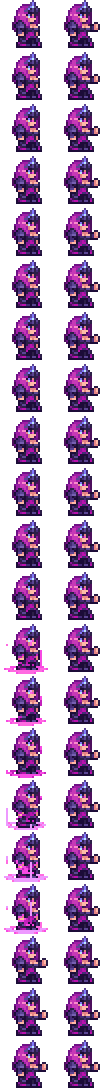
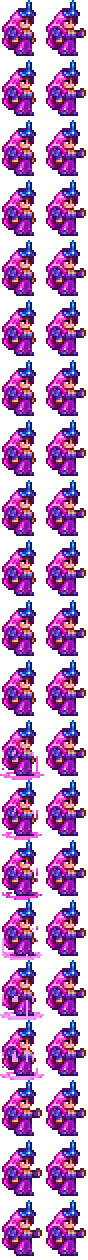
FAP

diff --git a/NPCs/TownNPCs/FAP.cs b/NPCs/TownNPCs/FAP.cs
@@ -6,6 +6,8 @@ using CalamityMod.NPCs.SupremeCalamitas;
 using CalamityMod.Projectiles.Magic;
 using CalamityMod.Projectiles.Summon;
 using CalamityMod.World;
+using Microsoft.Xna.Framework;
+using Microsoft.Xna.Framework.Graphics;
 using System.Collections.Generic;
 using Terraria;
 using Terraria.Audio;
@@ -26,7 +28,7 @@ namespace CalamityMod.NPCs.TownNPCs
     {
         public override void SetStaticDefaults()
         {
-            Main.npcFrameCount[NPC.type] = 25;
+            Main.npcFrameCount[NPC.type] = 27;
             NPCID.Sets.ExtraFramesCount[NPC.type] = 9;
             NPCID.Sets.AttackFrameCount[NPC.type] = 4;
             NPCID.Sets.DangerDetectRange[NPC.type] = 400;
@@ -47,7 +49,7 @@ namespace CalamityMod.NPCs.TownNPCs
                 .SetNPCAffection(NPCID.TaxCollector, AffectionLevel.Dislike)
                 .SetNPCAffection(NPCID.GoblinTinkerer, AffectionLevel.Hate)
                 .SetNPCAffection(NPCID.Angler, AffectionLevel.Hate);
-			NPCID.Sets.NPCBestiaryDrawModifiers drawModifiers = new NPCID.Sets.NPCBestiaryDrawModifiers(0) {
+			NPCID.Sets.NPCBestiaryDrawModifiers drawModifiers = new NPCID.Sets.NPCBestiaryDrawModifiers() {
 				Velocity = 1f // Draws the NPC in the bestiary as if its walking +1 tiles in the x direction
 			};
 			NPCID.Sets.NPCBestiaryDrawOffset.Add(NPC.type, drawModifiers);
@@ -243,6 +245,13 @@ namespace CalamityMod.NPCs.TownNPCs
             }
 
             return dialogue;
+        }
+
+        public override bool PreDraw(SpriteBatch spriteBatch, Vector2 screenPos, Color drawColor)
+        {
+            var something = NPC.direction == -1 ? SpriteEffects.None : SpriteEffects.FlipHorizontally;
+            spriteBatch.Draw(ModContent.Request<Texture2D>(Texture + (BirthdayParty.PartyIsUp ? "Alt" : "")).Value, NPC.Center - screenPos + new Vector2(0, NPC.gfxOffY) - new Vector2(0f, 6f), NPC.frame, drawColor, NPC.rotation, NPC.frame.Size() / 2, NPC.scale, something, 0);
+            return false;
         }
 
         public string Death()
